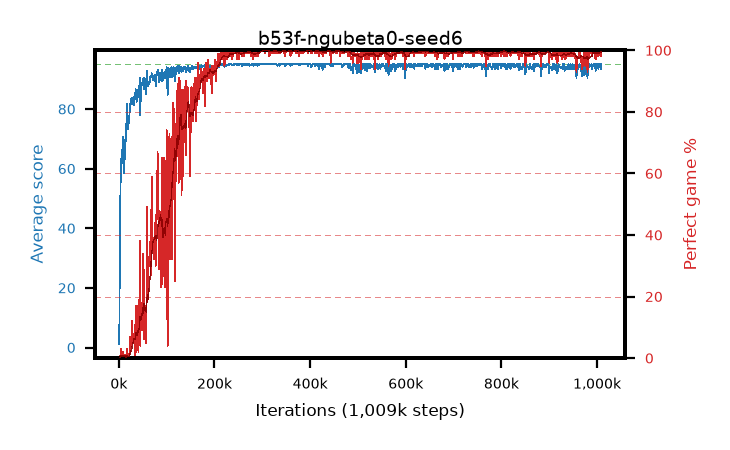
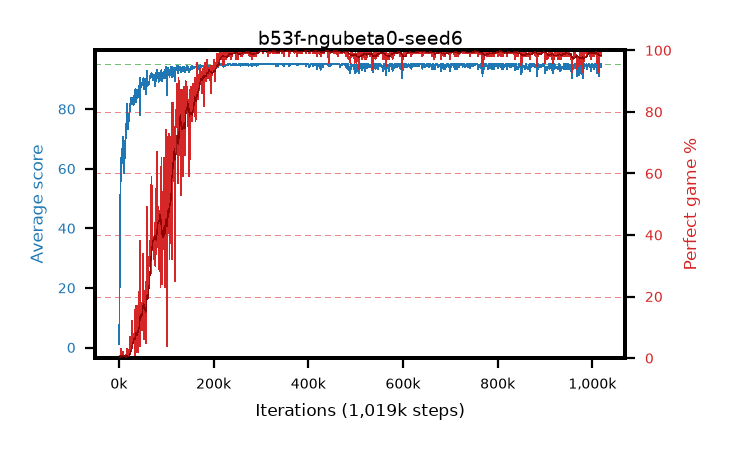
live pictures of 4 arm(s)

diff --git a/results/b53f-ngubeta0-seed6/b53f-ngubeta0-seed6.md b/results/b53f-ngubeta0-seed6/b53f-ngubeta0-seed6.md
@@ -1,6 +1,6 @@
 # b53f-ngubeta0-seed6
 
-step **1,009,000** · 1009 evals · trailing **94.35** · peak **94.99** @323,000 · sef **86.6** · best30 **99.8** @323,000
+step **1,019,000** · 1019 evals · trailing **94.39** · peak **94.99** @323,000 · sef **86.8** · best30 **99.8** @323,000
 
 ## Config
 
@@ -80,15 +80,15 @@ step **1,009,000** · 1009 evals · trailing **94.35** · peak **94.99** @323,00
 | 2000 | 35.17 | 18.16 | 10.0 | 67.0 | 29.965 | 0.0 | 0.4 |
 | 3000 | 47.63 | 27.98 | 1.0 | 93.0 | 42.642 | 0.0 | 0.4 |
 | ... | ... | ... | ... | ... | ... | ... | ... |
-| 998000 | 95.0 | 93.98 | 95.0 | 95.0 | 193.778 | 100.0 | 0.4 |
-| 999000 | 95.0 | 94.02 | 95.0 | 95.0 | 193.789 | 100.0 | 0.4 |
-| 1000000 | 95.0 | 94.07 | 95.0 | 95.0 | 193.787 | 100.0 | 0.4 |
-| 1001000 | 95.0 | 94.1 | 95.0 | 95.0 | 193.782 | 100.0 | 0.4 |
-| 1002000 | 94.19 | 94.19 | 19.0 | 95.0 | 190.938 | 98.0 | 0.4 |
-| 1003000 | 93.47 | 94.19 | 13.0 | 95.0 | 190.181 | 98.0 | 0.4 |
-| 1004000 | 94.97 | 94.19 | 92.0 | 95.0 | 192.76 | 99.0 | 0.4 |
-| 1005000 | 95.0 | 94.24 | 95.0 | 95.0 | 193.786 | 100.0 | 0.4 |
-| 1006000 | 95.0 | 94.24 | 95.0 | 95.0 | 193.786 | 100.0 | 0.4 |
-| 1007000 | 95.0 | 94.35 | 95.0 | 95.0 | 193.773 | 100.0 | 0.4 |
 | 1008000 | 95.0 | 94.4 | 95.0 | 95.0 | 193.777 | 100.0 | 0.4 |
 | 1009000 | 93.55 | 94.35 | 19.0 | 95.0 | 190.257 | 98.0 | 0.4 |
+| 1010000 | 91.99 | 94.4 | 16.0 | 95.0 | 186.625 | 96.0 | 0.4 |
+| 1011000 | 93.7 | 94.39 | 24.0 | 95.0 | 190.41 | 98.0 | 0.4 |
+| 1012000 | 95.0 | 94.44 | 95.0 | 95.0 | 193.784 | 100.0 | 0.4 |
+| 1013000 | 94.24 | 94.42 | 19.0 | 95.0 | 191.982 | 99.0 | 0.4 |
+| 1014000 | 91.19 | 94.29 | 18.0 | 95.0 | 182.748 | 93.0 | 0.4 |
+| 1015000 | 95.0 | 94.31 | 95.0 | 95.0 | 193.79 | 100.0 | 0.4 |
+| 1016000 | 95.0 | 94.34 | 95.0 | 95.0 | 193.787 | 100.0 | 0.4 |
+| 1017000 | 95.0 | 94.36 | 95.0 | 95.0 | 193.787 | 100.0 | 0.4 |
+| 1018000 | 94.14 | 94.34 | 19.0 | 95.0 | 190.887 | 98.0 | 0.4 |
+| 1019000 | 95.0 | 94.39 | 95.0 | 95.0 | 193.777 | 100.0 | 0.4 |

diff --git a/results/b53h-ngubeta0-seed8/b53h-ngubeta0-seed8.md b/results/b53h-ngubeta0-seed8/b53h-ngubeta0-seed8.md
@@ -1,6 +1,6 @@
 # b53h-ngubeta0-seed8
 
-step **1,029,000** · 1029 evals · trailing **94.45** · peak **94.92** @356,000 · sef **90.9** · best30 **99.7** @539,000
+step **1,039,000** · 1039 evals · trailing **94.44** · peak **94.92** @356,000 · sef **91.0** · best30 **99.7** @539,000
 
 ## Config
 
@@ -80,15 +80,15 @@ step **1,029,000** · 1029 evals · trailing **94.45** · peak **94.92** @356,00
 | 2000 | 50.19 | 26.7 | 2.0 | 95.0 | 51.185 | 6.0 | 0.4 |
 | 3000 | 57.71 | 37.03 | 27.0 | 95.0 | 54.481 | 2.0 | 0.4 |
 | ... | ... | ... | ... | ... | ... | ... | ... |
-| 1018000 | 95.0 | 94.35 | 95.0 | 95.0 | 193.782 | 100.0 | 0.4 |
-| 1019000 | 95.0 | 94.38 | 95.0 | 95.0 | 193.779 | 100.0 | 0.4 |
-| 1020000 | 95.0 | 94.38 | 95.0 | 95.0 | 193.775 | 100.0 | 0.4 |
-| 1021000 | 94.94 | 94.4 | 89.0 | 95.0 | 192.706 | 99.0 | 0.4 |
-| 1022000 | 94.23 | 94.38 | 25.0 | 95.0 | 190.923 | 98.0 | 0.4 |
-| 1023000 | 93.49 | 94.35 | 15.0 | 95.0 | 190.188 | 98.0 | 0.4 |
-| 1024000 | 95.0 | 94.42 | 95.0 | 95.0 | 193.781 | 100.0 | 0.4 |
-| 1025000 | 94.29 | 94.47 | 24.0 | 95.0 | 192.033 | 99.0 | 0.4 |
-| 1026000 | 93.5 | 94.45 | 15.0 | 95.0 | 190.208 | 98.0 | 0.4 |
-| 1027000 | 94.26 | 94.42 | 21.0 | 95.0 | 192.006 | 99.0 | 0.4 |
 | 1028000 | 95.0 | 94.45 | 95.0 | 95.0 | 193.78 | 100.0 | 0.4 |
 | 1029000 | 95.0 | 94.45 | 95.0 | 95.0 | 193.782 | 100.0 | 0.4 |
+| 1030000 | 93.86 | 94.44 | 27.0 | 95.0 | 190.56 | 98.0 | 0.4 |
+| 1031000 | 95.0 | 94.47 | 95.0 | 95.0 | 193.779 | 100.0 | 0.4 |
+| 1032000 | 93.4 | 94.44 | 14.0 | 95.0 | 190.106 | 98.0 | 0.4 |
+| 1033000 | 94.3 | 94.48 | 25.0 | 95.0 | 192.041 | 99.0 | 0.4 |
+| 1034000 | 93.57 | 94.44 | 21.0 | 95.0 | 190.268 | 98.0 | 0.4 |
+| 1035000 | 94.32 | 94.41 | 27.0 | 95.0 | 192.06 | 99.0 | 0.4 |
+| 1036000 | 95.0 | 94.41 | 95.0 | 95.0 | 193.783 | 100.0 | 0.4 |
+| 1037000 | 94.27 | 94.41 | 22.0 | 95.0 | 192.007 | 99.0 | 0.4 |
+| 1038000 | 95.0 | 94.44 | 95.0 | 95.0 | 193.77 | 100.0 | 0.4 |
+| 1039000 | 95.0 | 94.44 | 95.0 | 95.0 | 193.767 | 100.0 | 0.4 |
